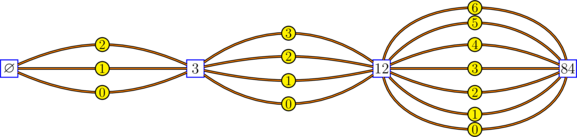
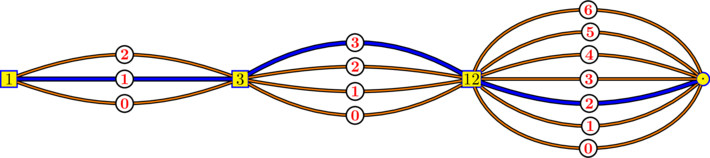
update vignette

Changed region(s): [[0.0, 0.0, 1.0, 1.0]]

diff --git a/inst/extdata/ary.tex b/inst/extdata/ary.tex
@@ -1,0 +1,87 @@
+\documentclass[10pt,border=0pt]{standalone}
+
+\usepackage[utf8]{inputenc}
+\usepackage{amssymb,amsmath}
+\usepackage{tikz}
+
+
+
+\thispagestyle{empty}
+
+\begin{document}
+
+\begin{tikzpicture}[x=9pt,y=6pt,scale=1.5, transform shape]
+  \centering
+  \tikzset{VertexStyle/.style = {
+    shape         = rectangle,
+    draw          = blue,
+    fill          = yellow,
+  	line width    = 1pt,
+    text          = black,
+    inner sep     = 1pt,
+    outer sep     = 0pt,
+    minimum size  = 10 pt,
+    scale         = 0.8
+    }
+  }
+  \tikzset{VertexStyle2/.style = {
+    shape         = circle,
+    draw          = blue,
+    fill          = yellow,
+  	line width    = 1pt,
+    text          = black,
+    inner sep     = 1pt,
+    outer sep     = 0pt,
+    minimum size  = 5 pt,
+    scale         = 0.8
+    }
+  }
+  \tikzset{EdgeStyle/.style = {
+    draw            = black,
+    thick,
+    double          = orange,
+    double distance = 1pt
+    }
+  }
+  \tikzset{EdgeStylePath/.style = {
+    draw            = black,
+    thick,
+    double          = blue,
+    double distance = 2pt
+    }
+  }
+  \tikzset{EdgeLabelStyle/.style = {
+    draw          = black,
+  	shape         = circle,
+  	line width    = 1pt,
+  	minimum size  = 10pt,
+    inner sep     = 1pt,
+    outer sep     = 0pt,
+    fill          = white,
+    text          = red,
+    scale         = 0.75
+    }
+  }
+
+	\node[VertexStyle](A1) at (6.25, 25) {$1$};
+	\node[VertexStyle](B1) at (18.75, 25) {$3$};
+	\node[VertexStyle](C1) at (31.25, 25) {$12$};
+	\node[VertexStyle2](D1) at (43.75, 25) {$\cdot$};
+	\draw[EdgeStyle, bend left=-20](A1) to node[EdgeLabelStyle]{$\bf 0$} (B1);
+	\draw[EdgeStylePath, bend left=0](A1) to node[EdgeLabelStyle]{$\bf 1$} (B1);
+	\draw[EdgeStyle, bend left=20](A1) to node[EdgeLabelStyle]{$\bf 2$} (B1);
+	\draw[EdgeStyle, bend left=-30](B1) to node[EdgeLabelStyle]{$\bf 0$} (C1);
+	\draw[EdgeStyle, bend left=-10](B1) to node[EdgeLabelStyle]{$\bf 1$} (C1);
+	\draw[EdgeStyle, bend left=10](B1) to node[EdgeLabelStyle]{$\bf 2$} (C1);
+	\draw[EdgeStylePath, bend left=30](B1) to node[EdgeLabelStyle]{$\bf 3$} (C1);
+	\draw[EdgeStyle, bend left=-70](C1) to node[EdgeLabelStyle]{$\bf 0$} (D1);
+	\draw[EdgeStyle, bend left=-40](C1) to node[EdgeLabelStyle]{$\bf 1$} (D1);
+	\draw[EdgeStylePath, bend left=-20](C1) to node[EdgeLabelStyle]{$\bf 2$} (D1);
+	\draw[EdgeStyle, bend left=0](C1) to node[EdgeLabelStyle]{$\bf 3$} (D1);
+	\draw[EdgeStyle, bend left=20](C1) to node[EdgeLabelStyle]{$\bf 4$} (D1);
+	\draw[EdgeStyle, bend left=40](C1) to node[EdgeLabelStyle]{$\bf 5$} (D1);
+	\draw[EdgeStyle, bend left=70](C1) to node[EdgeLabelStyle]{$\bf 6$} (D1);
+
+  \end{tikzpicture}
+
+\end{document}
